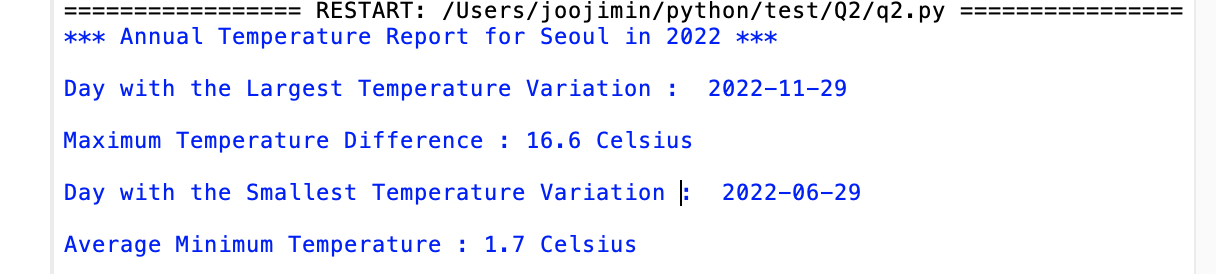
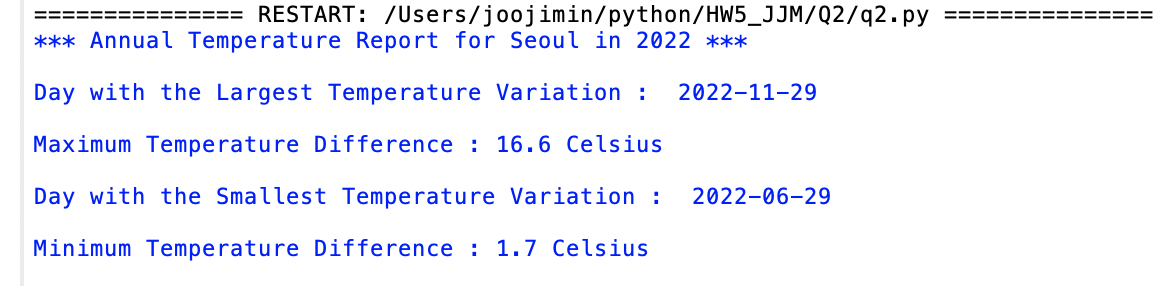
hw5_final

diff --git a/Q2/q2.py b/Q2/q2.py
@@ -31,7 +31,7 @@ def main() :
     print("Day with the Largest Temperature Variation : ",max_date.strip(),"\n")
     print("Maximum Temperature Difference : {0:.1f} Celsius\n".format(max_diff))
     print("Day with the Smallest Temperature Variation : ",min_date.strip(),"\n")
-    print("Average Minimum Temperature : {0:.1f} Celsius\n".format(min_diff))
+    print("Minimum Temperature Difference : {0:.1f} Celsius\n".format(min_diff))
 
     f.close()
 
